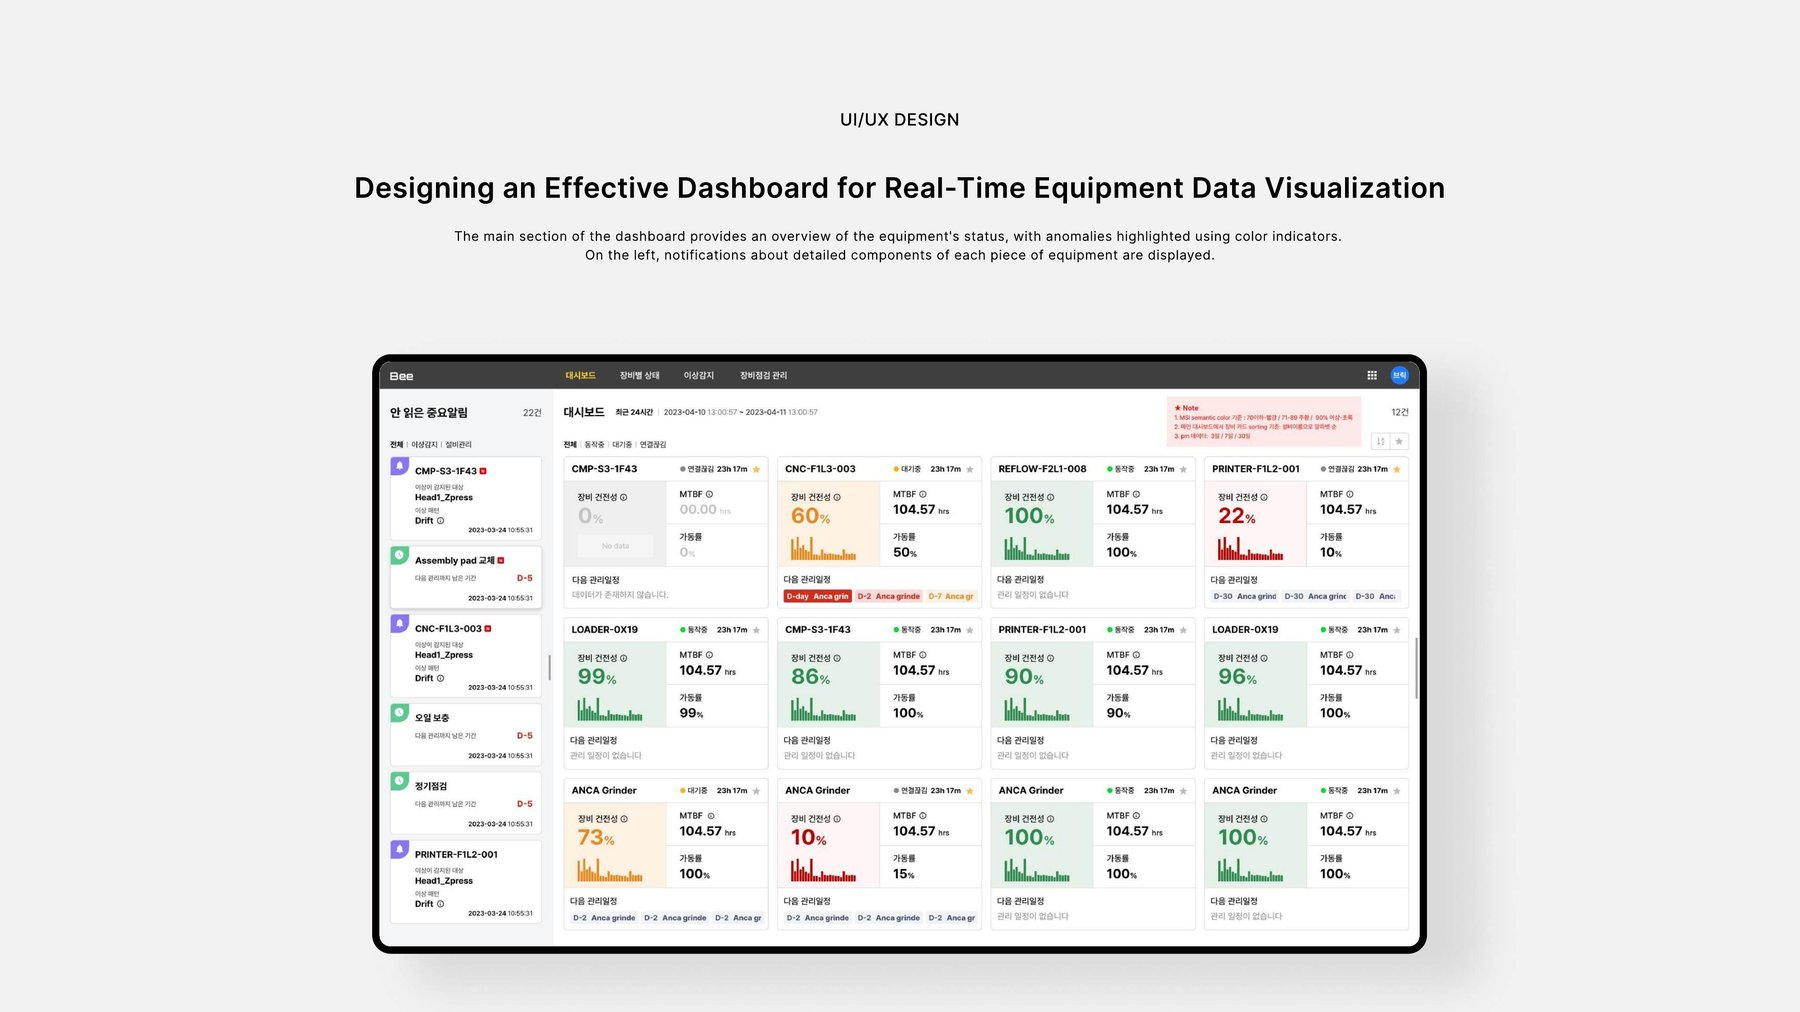
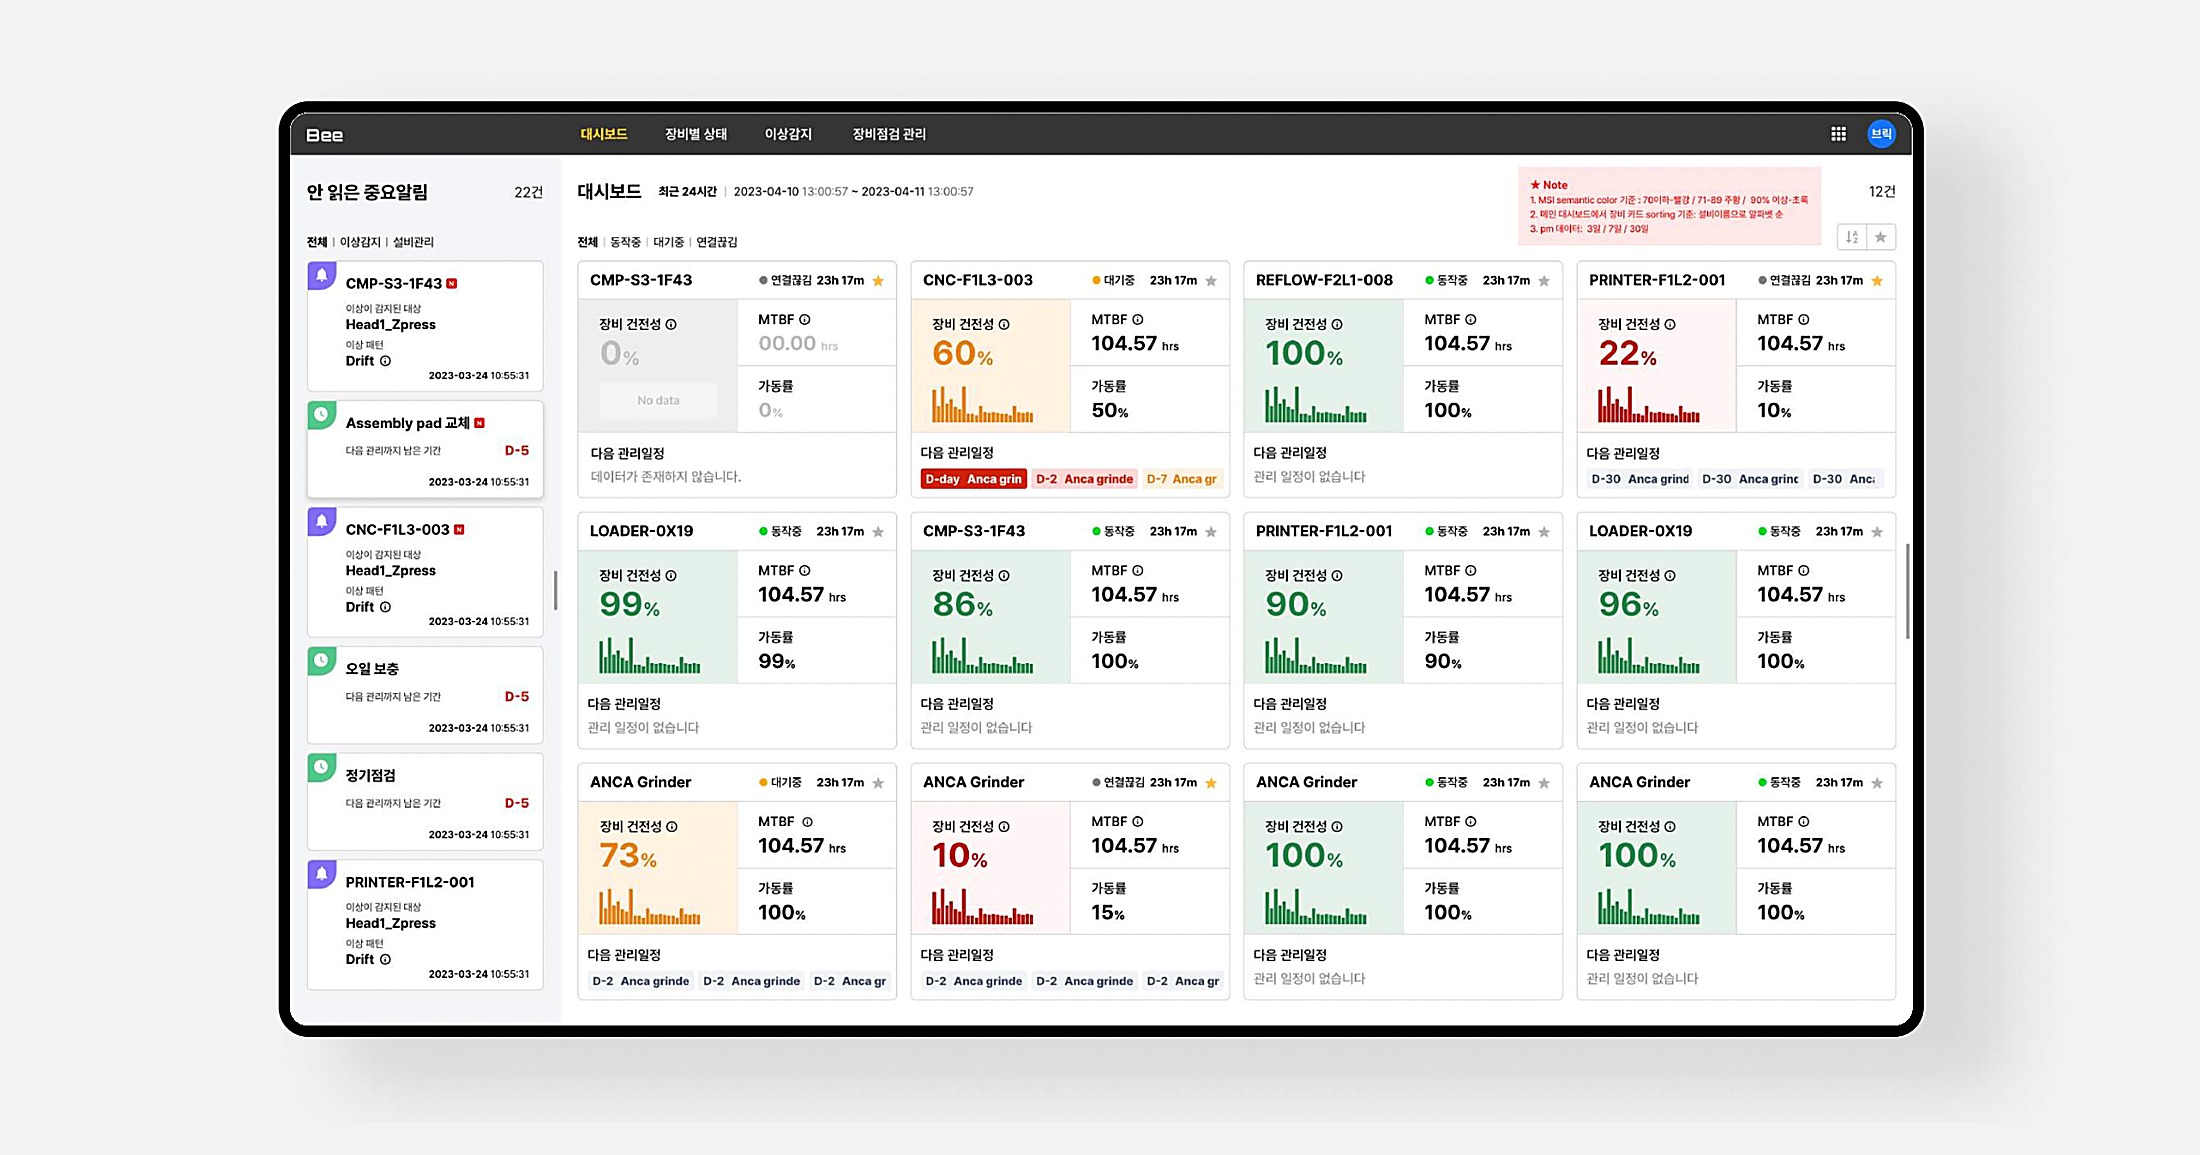
Sharpen Bee hero image, fix aspect ratio mismatch, remove unused heavy PNG

Changed region(s): [[0.1244, 0.0613, 0.9022, 0.9496], [0.2489, 0.2757, 0.3111, 0.3063]]

diff --git a/project-demo-bee-equipment-notification.html b/project-demo-bee-equipment-notification.html
@@ -34,8 +34,8 @@
     </span>
   </header>
 
-  <div class="hero-media" style="aspect-ratio: 1800 / 1012;">
-    <img src="images/bee-hero.png" alt="Bee 실시간 장비 데이터 대시보드">
+  <div class="hero-media" style="aspect-ratio: 2200 / 1155;">
+    <img src="images/bee-hero.jpg" alt="Bee 실시간 장비 데이터 대시보드">
   </div>
 
   <section class="intro">
